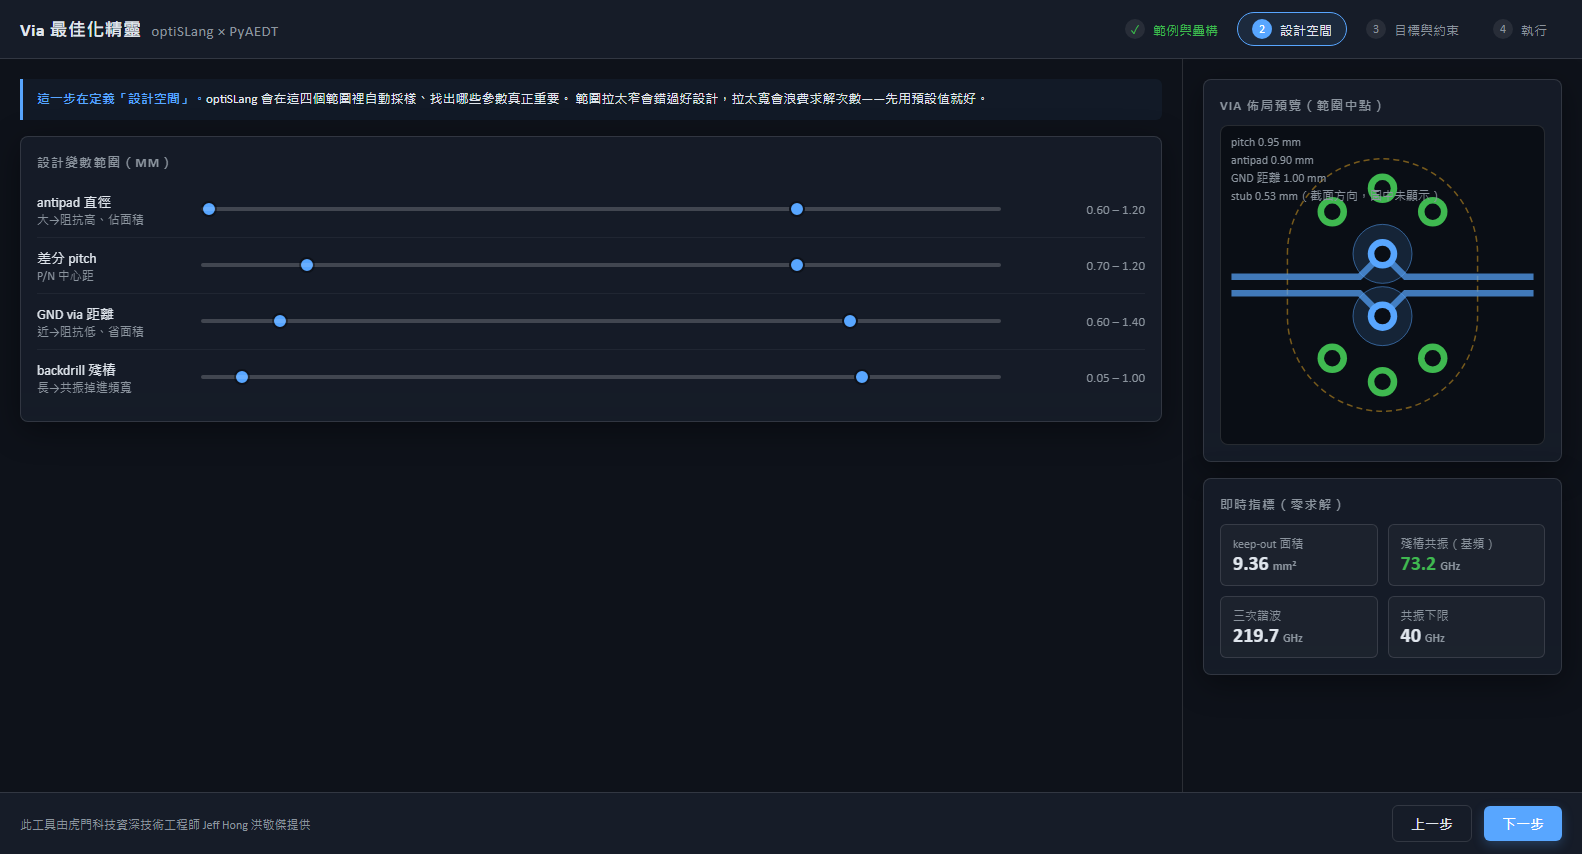
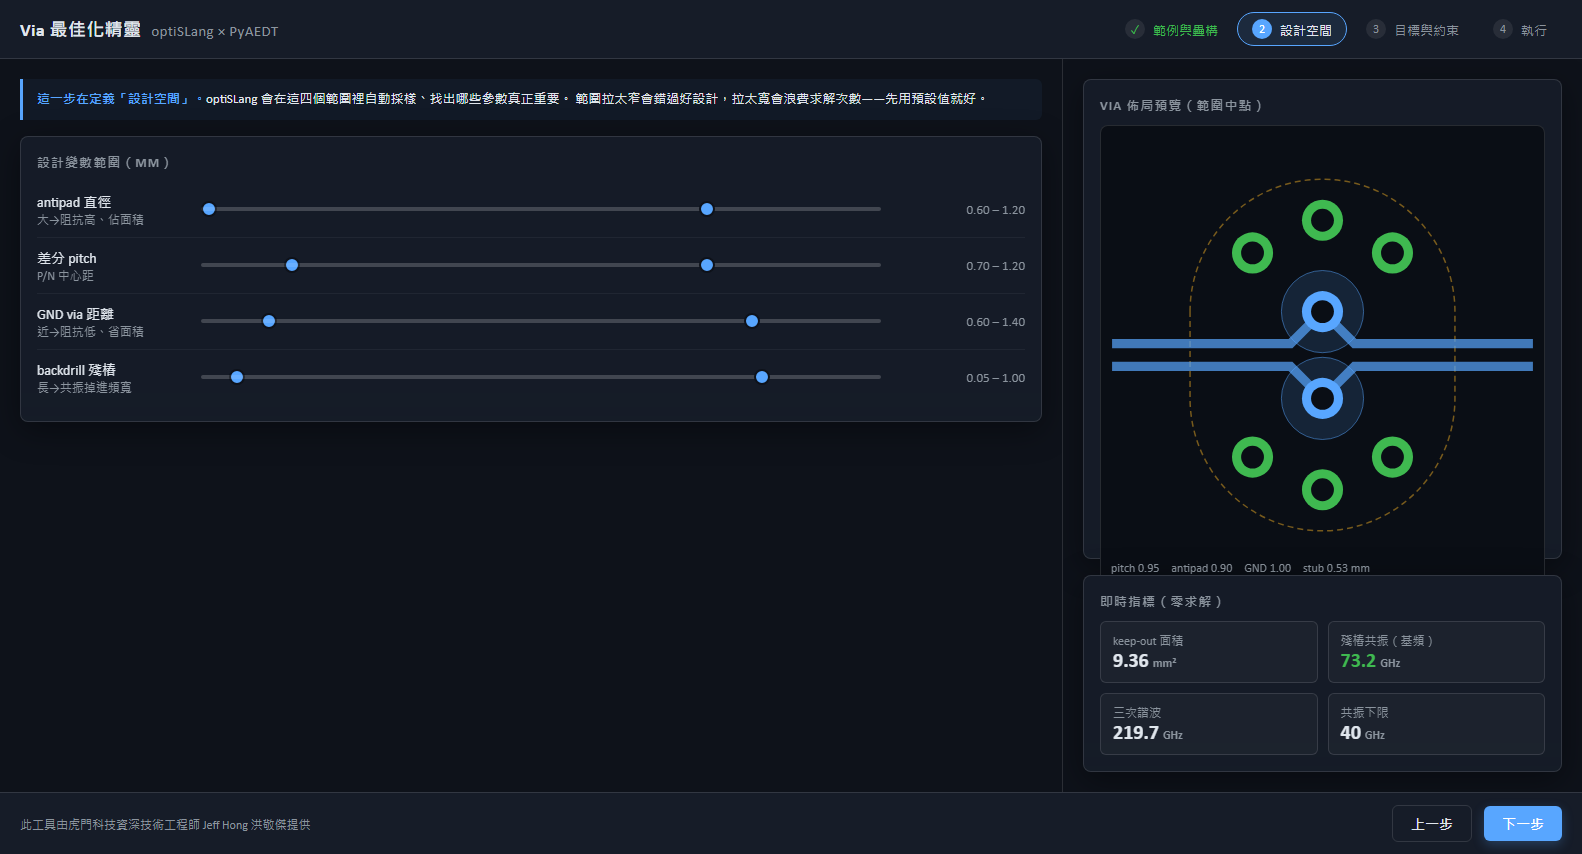
放大 via 佈局預覽（側欄 520px、canvas 460px）並重拍精靈四步截圖
依 demo 演練回饋：預覽相對拉桿太小、標註文字壓到圖形。
標註改為底部單行；四張截圖以新版面重拍（同一次真實操作、載入
24 點正式預跑）。

diff --git a/web_app/frontend/src/ViaPreview.tsx b/web_app/frontend/src/ViaPreview.tsx
@@ -117,13 +117,15 @@ export default function ViaPreview({ point }: { point: DesignPoint }) {
       }
     }
 
-    // 標註
+    // 標註：集中在底部一列，不壓到圖形
     ctx.fillStyle = "#8b949e";
     ctx.font = "12px Calibri, 'Microsoft JhengHei'";
-    ctx.fillText(`pitch ${point.pitch_mm.toFixed(2)} mm`, 10, 20);
-    ctx.fillText(`antipad ${point.antipad_mm.toFixed(2)} mm`, 10, 38);
-    ctx.fillText(`GND 距離 ${point.gnd_distance_mm.toFixed(2)} mm`, 10, 56);
-    ctx.fillText(`stub ${point.stub_mm.toFixed(2)} mm（截面方向，圖中未顯示）`, 10, 74);
+    ctx.fillText(
+      `pitch ${point.pitch_mm.toFixed(2)}　antipad ${point.antipad_mm.toFixed(2)}　` +
+        `GND ${point.gnd_distance_mm.toFixed(2)}　stub ${point.stub_mm.toFixed(2)} mm`,
+      10,
+      h - 12,
+    );
   }, [point]);
 
   return (

diff --git a/web_app/frontend/src/index.css b/web_app/frontend/src/index.css
@@ -122,7 +122,7 @@ body,
 }
 
 .wizard-side {
-  width: 400px;
+  width: 520px;
   flex-shrink: 0;
   border-left: 1px solid var(--border-light);
   padding: 20px;
@@ -335,7 +335,7 @@ body,
 
 .canvas-wrap {
   flex: 1;
-  min-height: 320px;
+  min-height: 460px;
   position: relative;
 }
 
